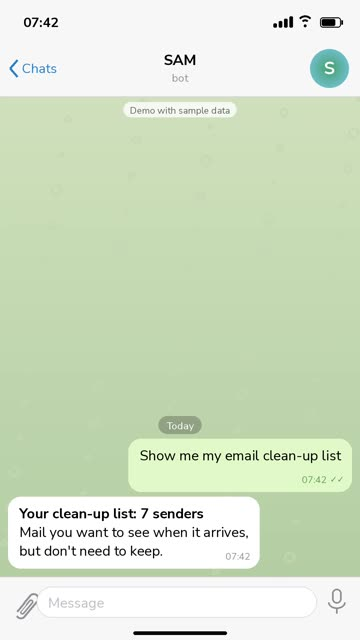
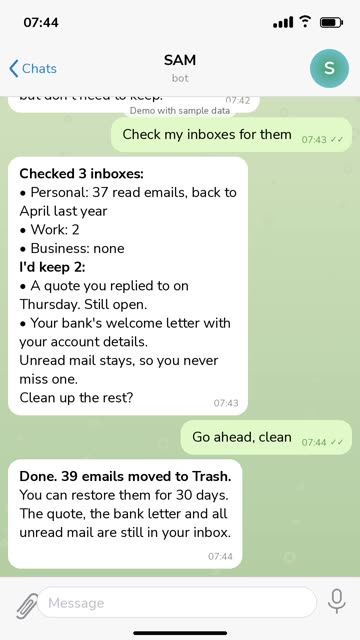
Contact buttons: WhatsApp and Telegram (home, how-to); clean-up poster frame

diff --git a/index.html b/index.html
@@ -59,7 +59,7 @@ a{color:var(--acc)}
 </section>
 <p class="links"><a href="what-you-get/">What you get</a> &middot; <a href="how-to/">How-to videos</a> &middot; <a href="manual-63i1bymc/">Owner manual</a></p>
 <div id="player" role="dialog" aria-label="Demo video"><button aria-label="Close">&times;</button><video controls playsinline></video></div>
-<a class="btn" href="https://t.me/Contact_SAM_bot" target="_blank" rel="noopener">Click here to chat with us on Telegram</a>
+<a class="btn" href="https://wa.me/message/M4GIL4V2D43LH1" target="_blank" rel="noopener">Chat with us on WhatsApp</a> <a class="btn" href="https://t.me/Contact_SAM_bot" target="_blank" rel="noopener">Chat with us on Telegram</a>
 <footer>&copy; 2026 Dennis Bouwers. SAM assistant is not made by or affiliated with Anthropic or Telegram. Claude is a trademark of Anthropic.</footer>
 </main>
 <script>

diff --git a/how-to/index.html b/how-to/index.html
@@ -50,7 +50,7 @@ a{color:var(--acc)}
 </div>
 </section>
 <div id="player" role="dialog" aria-label="How-to video"><button aria-label="Close">&times;</button><video controls playsinline></video></div>
-<a class="btn" href="https://t.me/Contact_SAM_bot" target="_blank" rel="noopener">Questions? Chat with us on Telegram</a>
+<a class="btn" href="https://wa.me/message/M4GIL4V2D43LH1" target="_blank" rel="noopener">Chat with us on WhatsApp</a> <a class="btn" href="https://t.me/Contact_SAM_bot" target="_blank" rel="noopener">Chat with us on Telegram</a>
 <footer>&copy; 2026 Dennis Bouwers. SAM assistant is not made by or affiliated with Anthropic or Telegram. Claude is a trademark of Anthropic.</footer>
 </main>
 <script>
